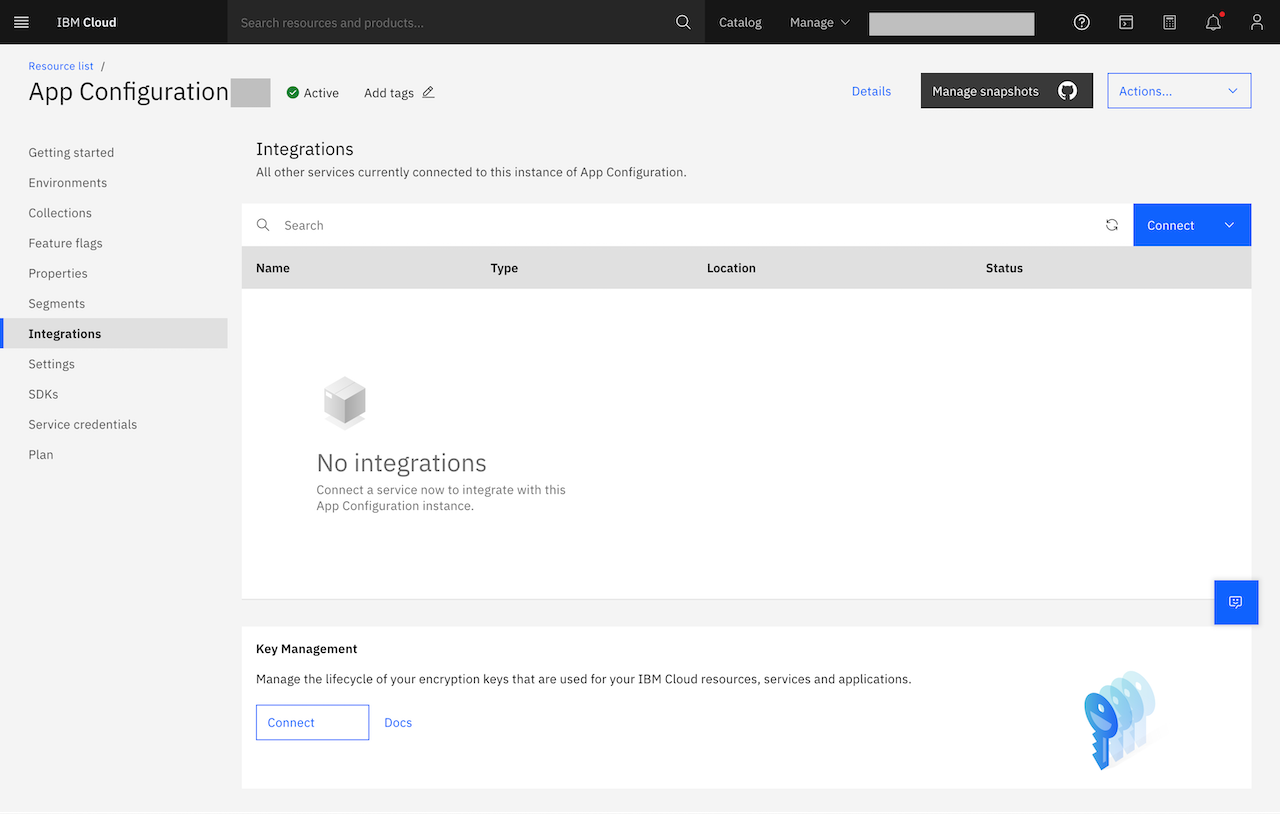
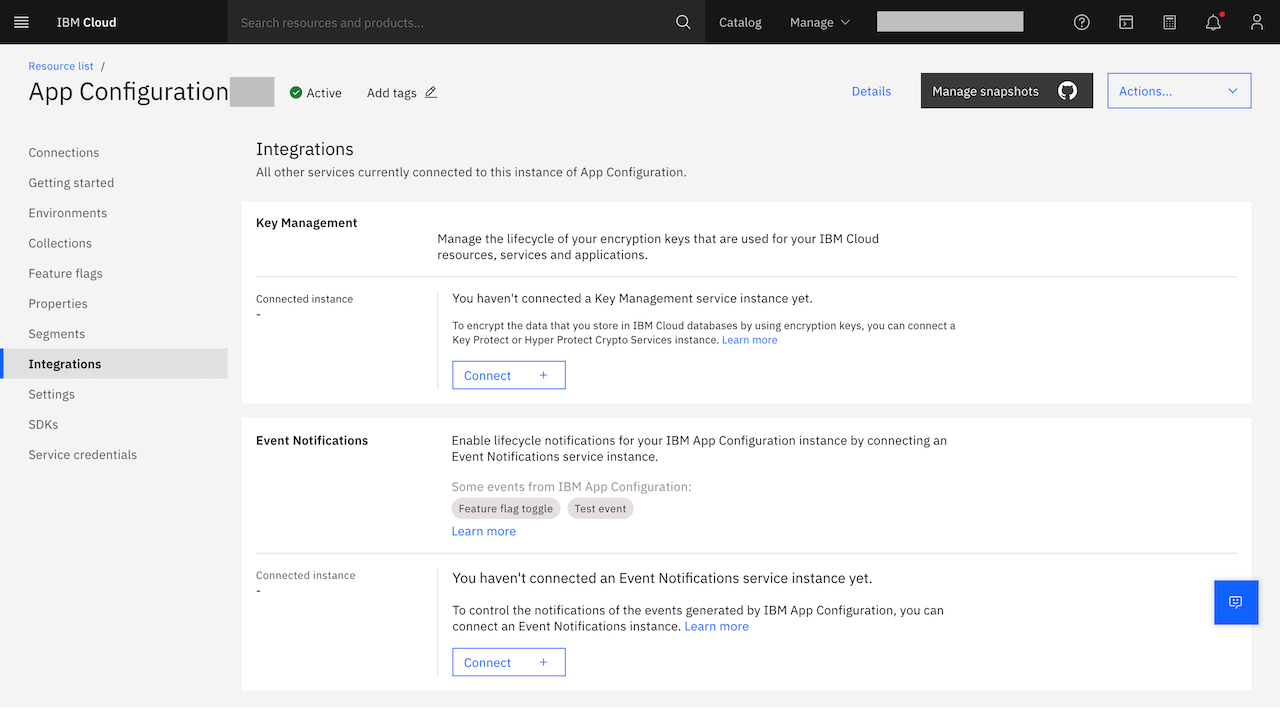
en integration (#149)
* en integration

* content update

diff --git a/ac-en-integration.md b/ac-en-integration.md
@@ -1,0 +1,152 @@
+---
+
+copyright:
+  years: 2023
+lastupdated: "2023-01-24"
+
+keywords: app-configuration, app configuration, integrations, event notifications, en
+
+subcollection: app-configuration
+
+---
+
+{{site.data.keyword.attribute-definition-list}}
+
+# Integrating with {{site.data.keyword.en_short}}
+{: #ac-int-en}
+
+As an administrator of {{site.data.keyword.appconfig_short}}, you might want to send notifications of events in {{site.data.keyword.appconfig_short}} to other users, or human destinations, by using email, SMS, or other supported delivery channels. Additionally, you might want to send these notifications of events to other applications to build logic by using event-driven programming using webhooks, for example. This is made possible by the integration between {{site.data.keyword.appconfig_short}} and {{site.data.keyword.en_short}}.
+{: shortdesc}
+
+To send information to {{site.data.keyword.en_short}}, you must connect your {{site.data.keyword.appconfig_short}} service instance to {{site.data.keyword.en_short}}. For more information about working with {{site.data.keyword.en_short}}, see [Getting started with {{site.data.keyword.en_short}}](https://{DomainName}/docs/event-notifications).
+
+## How events are collected and sent by {{site.data.keyword.appconfig_short}}?
+{: #ac-events-collected-and-sent-en}
+
+When an event of interest takes place in your {{site.data.keyword.appconfig_short}} instance, {{site.data.keyword.appconfig_short}} communicates with a connected {{site.data.keyword.en_short}} instance to forward a notification to a [supported destination](https://{DomainName}/docs/event-notifications?topic=event-notifications-en-destination).
+
+{{site.data.keyword.appconfig_short}} aggregates a list of your pending notifications by [event type](#ac-en-int-events). Every 1 - 2 minutes, the service checks for and dispatches any pending notifications to the connected {{site.data.keyword.en_short}} service.
+
+## Events for {{site.data.keyword.appconfig_short}}
+{: #ac-en-int-events}
+
+The following table lists the {{site.data.keyword.appconfig_short}} actions that generate an event.
+
+| Event name | Event type | Subtype | Severity level |
+| :--------- | :--------- | :------ | :------------- |
+| Test event | `com.ibm.cloud.apprapp.test_event` |   | Low |
+| Feature flag toggle | `com.ibm.cloud.apprapp.feature_flag_toggle` | enabled  \n disabled | High |
+{: caption="Table 1. Actions that generate event notifications" caption-side="bottom"}
+
+## Enabling notifications with {{site.data.keyword.en_short}}
+{: #ac-int-en-enable-notifications}
+
+Events that are generated by an instance of the {{site.data.keyword.appconfig_short}} service can be forwarded to an {{site.data.keyword.en_short}} service instance that is available in the same account. You can configure only one {{site.data.keyword.appconfig_short}} instance to one {{site.data.keyword.en_short}} service instance. To get started, you need:
+
+- [Manager service access]() on the {{site.data.keyword.appconfig_short}} service.
+- [Manager service access]() on the {{site.data.keyword.en_short}} service. To view an existing {{site.data.keyword.en_short}} service instance in your account, you also need Viewer platform access or higher.
+
+### Connecting to {{site.data.keyword.en_short}} in the UI
+{: #ac-int-en-connecting}
+
+Before you begin integrating {{site.data.keyword.en_short}} with {{site.data.keyword.appconfig_short}}, you need to [create an {{site.data.keyword.en_short}} service](https://{DomainName}/catalog/services/event-notifications) instance in the same account as your {{site.data.keyword.appconfig_short}} instance. Make sure you have IAM role Manger for {{site.data.keyword.IBM_notm}} {{site.data.keyword.appconfig_short}}, and [IAM service-to-service authorization](#ac-using-auth-access-between-services1).
+{: note}
+
+If you are using {{site.data.keyword.appconfig_short}} CLI or API to create integration with a {{site.data.keyword.en_short}} service instance, ensure that you have enabled authorization to grant access between services before integrating with {{site.data.keyword.en_short}}. For more information, see [Using authorizations to grant access between services](#ac-using-auth-access-between-services1).
+{: important}
+
+To integrate with a {{site.data.keyword.en_short}} service, perform the following steps:
+
+1. From your {{site.data.keyword.appconfig_short}} service instance dashboard, click **Integrations**. By default, the integrations displays the services supported along with integrations in the current {{site.data.keyword.appconfig_short}} service.
+
+1. From **Event Notifications** tile, click **Connect +**. This displays the **Connect to {{site.data.keyword.en_short}}** side panel.
+
+   ![Create {{site.data.keyword.en_short}} integration](images/ac-integrations-en-create.png "Create {{site.data.keyword.en_short}} integration"){: caption="Figure 1. Create {{site.data.keyword.en_short}} integration" caption-side="bottom"}
+
+1. Enter the **Source Details**. The source details provided will be referenced in {{site.data.keyword.en_short}}.
+   - **Name** - Enter the name for your {{site.data.keyword.appconfig_short}} instance to be referenced in {{site.data.keyword.en_short}}.
+   - **Description** - Optionally, provide a short description about this source.
+
+1. Provide the following **{{site.data.keyword.en_short}} instance** details, if you already have an {{site.data.keyword.en_short}} instance. Otherwise, click the **Create new instance**.
+   - **Resource Group** - Select the resource group where your {{site.data.keyword.en_short}} instance is created from the list.
+   - **{{site.data.keyword.en_short}} service instance** - Select the {{site.data.keyword.en_short}} service instance from the list.
+
+1. Click **Save** to apply the integration.
+
+   An error will be displayed if there is no IAM service-to-service authorization enabled, and the integration details will not be saved.
+   {: note}
+
+The integrated **{{site.data.keyword.en_short}}** details will be listed under **Connected instance**.
+
+The overflow menu of the **Connected instance** consists of:
+- **Refresh** - Select this option to refresh the details of {{site.data.keyword.en_short}} instance integration.
+- **Disconnect** - Select this option to disconnect the {{site.data.keyword.en_short}} instance integrated earlier with your {{site.data.keyword.appconfig_short}} service instance.
+
+After successful integration, you need to create Topics, Destinations, and Subscriptions in {{site.data.keyword.en_short}} to be notified of events that are generated by your {{site.data.keyword.appconfig_short}} service instance. For more details, see [Event Notifications documentation](/docs/event-notifications?topic=event-notifications-getting-started).
+
+When creating a Topic in your {{site.data.keyword.en_short}} service instance, do the following:
+- Select the **Source** as *App Configuration*.
+- Select the **Event type** based on your requirement. For more information, see [event type](#ac-en-int-events).
+- Select the **Event subtype**, which is optional.
+- Select the **Severity**, which is optional.
+- Define the **Advanced conditions**, which is optional.
+
+## Using authorizations to grant access between services
+{: #ac-using-auth-access-between-services1}
+
+Use {{site.data.keyword.cloud}} Identity and Access Management (IAM) to create or remove an authorization that grants one service access to another service. Use authorization delegation to automatically create access policies that grant access to dependent services.
+
+### Creating an authorization in the console
+{: #ac-create-auth-console1}
+
+1. In the {{site.data.keyword.cloud_notm}} console, click **Manage** > **Access (IAM)**, and select **Authorizations**.
+
+1. Click **Create**.
+
+1. Select a source account.
+   * If the source service that needs access to the target service is in this account, select **This account**.
+   * If the source service that needs access to the target service is in a different account, select **Other account**. Then, enter the **Account ID** of the source account.
+
+1. Select a **Source service** as **App Configuration**.
+
+1. Specify whether you want the authorization to be for all resources or Resources based on selected attributes. If you selected Resources based on selected attributes, then specify the **Add attributes**: only source resource group or only source service instance.
+
+1. Select a **Target service** as **Event Notifications**.
+
+1. For the target service, specify whether you want the authorization to be for all instances, only to a specific instance in the account, or instances only in a certain resource group.
+
+1. Select a role to assign access to the source service that accesses the target service.
+
+1. Click **Authorize**.
+
+### Creating an authorization by using the CLI
+{: #ac-create-auth-cli1}
+
+To authorize a source service access a target service, run the `ibmcloud iam authorization-policy-create` command.
+
+For more information about all of the parameters that are available for this command, see [ibmcloud iam authorization-policy-create](/docs/cli?topic=cli-ibmcloud_commands_iam#ibmcloud_iam_authorization_policy_create).
+
+## Notification payload details
+{: #ac-en-int-notification-payload}
+
+Successful events that are generated by {{site.data.keyword.appconfig_short}} contain various fields that help you to identify the source and details of an event.
+
+{{site.data.keyword.appconfig_short}} sends a notification payload to {{site.data.keyword.en_short}} that is similar to the following example.
+
+```json
+{ "source_service_name": "App Configuration", "source_instance_crn": "crn:v1:staging:public:apprapp-dev:us-south:a/ab420c985dd849c6a8352e71cba26ab8:a6b52cd4-deab-492a-941b-cdd9f8d63f3b::", "source_instance_dashboard_url": "https://cloud.ibm.com/services/apprapp/crn%3Av1%3Astaging%3Apublic%3Aapprapp-dev%3Aus-south%3Aa%2Fdc420e985bb849d6b8352f71dac26ab8%3Aa6b52cd4-deab-492a-941b-cdd9f8d63f3b%3A%3A?paneId=featureflag", "event_type": "com.ibm.cloud.app-configuration.feature_flag_toggle", "event_subtype": "enabled", "event_severity": "HIGH", "configurations": [ { "environment_id": "prod", "name": "Flight Booking", "feature_id": "flight-booking", "description": "", "tags": "", "type": "BOOLEAN", "enabled_value": false, "disabled_value": false, "segment_rules": [ { "rules": [ { "segments": [ "kufdrvsn" ] } ], "value": true, "order": 1 } ], "collections": [ { "collection_id": "blue-charge", "name": "Blue charge" } ], "enabled": true } ] }
+```
+{: codeblock}
+
+Review following table for more information about event notification properties.
+
+| Property | Type | Description |
+| :------- | :---------- | :---------- |
+| `source_service_name` | string | The display name of the service that sent the event notification. |
+| `source_instance_crn` | string | The Cloud Resource Name (CRN) that uniquely identifies your {{site.data.keyword.appconfig_short}} service instance. |
+| `source_instance_dashboard_url` | string | The URL to your {{site.data.keyword.appconfig_short}} service dashboard in the console. |
+| `event_type` | string | The [type of event](#ac-en-int-events) that triggered a notification. |
+| `event_subtype` | string | The subtype that corresponds with the [type of event](#ac-en-int-events) that triggered a notification. |
+| `event_severity` | string | Event severity: Low or High |
+| `configurations` | **tbd** | **info to come** |
+{: caption="Table 2. Properties in an event notification payload" caption-side="bottom"}

diff --git a/ac-integrations.md b/ac-integrations.md
@@ -1,10 +1,10 @@
 ---
 
 copyright:
-  years: 2022
-lastupdated: "2023-01-03"
+  years: 2022, 2023
+lastupdated: "2023-01-19"
 
-keywords: app-configuration, app configuration, integrations, key protect, key management, hyper protect, hpcs
+keywords: app-configuration, app configuration, integrations, key protect, key management, hyper protect, hpcs, event notifications, en
 
 subcollection: app-configuration
 
@@ -15,83 +15,14 @@ subcollection: app-configuration
 # Integrations
 {: #ac-integrations}
 
-Integrations in {{site.data.keyword.appconfig_short}} represent list of other {{site.data.keyword.cloud_notm}} services that are connected to your {{site.data.keyword.appconfig_short}} instance. You can encrypt the data that you store in {{site.data.keyword.cloud_notm}} databases by using encryption keys that you can control.
+Integrations in {{site.data.keyword.appconfig_short}} represent list of other {{site.data.keyword.cloud_notm}} services that are connected to your {{site.data.keyword.appconfig_short}} instance.
 {: shortdesc}
 
-The **Integrations** page displays the integrations in the current {{site.data.keyword.appconfig_short}} service instance along with Name, type, location, and status of the integration.
+The **Integrations** page displays the services supported along with integrations in the current {{site.data.keyword.appconfig_short}} service. Following service integrations are supported:
 
 ![List of integrations](images/ac-integrations-default.png "List of integrations"){: caption="Figure 1. List of integrations" caption-side="bottom"}
 
-You can use either one of the following options:
-- Bring Your Own Key (BYOK) through {{site.data.keyword.keymanagementservicelong_notm}}, and use one of your own keys to encrypt your databases and backups.
-- Hyper Protect Crypto Services (HPCS) - {{site.data.keyword.cloud}} {{site.data.keyword.hscrypto}}, a dedicated key management service, and Hardware Security Module (HSM) that provides you with the Keep Your Own Key capability for cloud data encryption with exclusive control of your encryption keys.
+1. **Key Management** - You can encrypt the data that you store in {{site.data.keyword.cloud_notm}} databases by using encryption keys that you can control. Manage the lifecycle of your encryption keys that are used for your {{site.data.keyword.cloud_notm}} resources, services and applications. For more information, see [Integrating with a Key management service](/docs/app-configuration?topic=app-configuration-ac-int-key-management).
 
-BYOK and KYOK capabilities are supported only for {{site.data.keyword.appconfig_short}} Enterprise plan.
-{: important}
+1. **{{site.data.keyword.en_short}}** - Enable lifecycle notifications for your {{site.data.keyword.appconfig_short}} instance by connecting an {{site.data.keyword.en_short}} service instance. For more information, see [Integrating with {{site.data.keyword.en_short}} service](/docs/app-configuration?topic=app-configuration-ac-int-en).
 
-For more information, see [Managing encryption](/docs/app-configuration?topic=app-configuration-ac-managing-encryption).
-
-## Integrating with a Key management service
-{: #ac-int-key-management}
-
-If you are using {{site.data.keyword.appconfig_short}} CLI or API to create integration with a key management service (KMS), ensure that you have enabled authorization to grant access between services before integrating with a KMS service. For more information, see [Using authorizations to grant access between services](#ac-using-auth-access-between-services).
-{: important}
-
-You can create and bring keys that are created by using {{site.data.keyword.keymanagementserviceshort}} or {{site.data.keyword.hscrypto}}. To get started, you need [{{site.data.keyword.keymanagementserviceshort}}](https://cloud.ibm.com/catalog/key-protect){: external} or [{{site.data.keyword.hscrypto}}](https://cloud.ibm.com/catalog/services/hyper-protect-crypto-services) provisioned on your {{site.data.keyword.cloud_notm}} account. For more information, see [provisioning a key protect instance](https://cloud.ibm.com/docs/key-protect?topic=key-protect-provision){: external} or see [provisioning a {{site.data.keyword.hscrypto}} instance](/docs/hs-crypto?topic=hs-crypto-get-started){: external}.
-
-1. From your {{site.data.keyword.appconfig_short}} service instance dashboard, click **Integrations**. By default, the integrations display the list of other {{site.data.keyword.cloud_notm}} services that are connected to your {{site.data.keyword.appconfig_short}} instance.
-
-1. From the **Connect** drop-down list, select **Key Management**. This displays the **Key Management** side panel.
-
-   ![Create KMS integration](images/ac-integrations-create.png "Create KMS integration"){: caption="Figure 2. Create KMS integration" caption-side="bottom"}
-
-1. Select **Key Protect** or **Hyper Protect Crypto Services** from the **Service** drop-down list, as per your requirement.
-
-1. For the **Instance**, select one of these options:
-   - **Create a new instance** - to create a new instance of the selected service. Selecting this option takes you to the respective provisioning page of the service selected.
-   - **Choose existing instance** - select this option if you already have a {{site.data.keyword.keymanagementserviceshort}} or {{site.data.keyword.hscrypto}} instance. Select the **Service** instance and **Root key** from the drop-down list.
-
-1. Click **Create** to apply the use of your {{site.data.keyword.keymanagementserviceshort}} or {{site.data.keyword.hscrypto}} instance's root key to encrypt the segment data stored by your {{site.data.keyword.appconfig_short}} instance.
-
-The newly created **Key Management** information is listed in the **Integrations** dashboard.
-
-The overflow menu consists of:
-- `View` - helps you to view the details of the selected encryption service.
-
-When an {{site.data.keyword.appconfig_short}} instance is deleted, unregistration of the resource with key management services automatically happens. If any error, you can manually unregister {{site.data.keyword.appconfig_short}} instance from key management service by using the {{site.data.keyword.cloud_notm}} console dashboard.
-{: note}
-
-## Using authorizations to grant access between services
-{: #ac-using-auth-access-between-services}
-
-Use {{site.data.keyword.Bluemix}} Identity and Access Management (IAM) to create or remove an authorization that grants one service access to another service. Use authorization delegation to automatically create access policies that grant access to dependent services.
-
-### Creating an authorization in the console
-{: #ac-create-auth-console}
-
-1. In the {{site.data.keyword.cloud_notm}} console, click **Manage** > **Access (IAM)**, and select **Authorizations**.
-
-1. Click **Create**.
-
-1. Select a source account.
-   * If the source service that needs access to the target service is in this account, select **This account**.
-   * If the source service that needs access to the target service is in a different account, select **Other account**. Then, enter the **Account ID** of the source account.
-
-1. Select a **Source service** as **App Configuration**.
-
-1. Specify whether you want the authorization to be for all resources or Resources based on selected attributes. If you selected Resources based on selected attributes, then specify the *Add attributes**: only source resource group or only source service instance.
-
-1. Select a **Target service** as per your requirement (Key Protect or Hyper Protect Crypto Services).
-
-1. For the target service, specify whether you want the authorization to be for all instances, only a specific instance in the account, or instances only in a certain resource group.
-
-1. Select a role to assign access to the source service that accesses the target service.
-
-1. Click **Authorize**.
-
-### Creating an authorization by using the CLI
-{: #ac-create-auth-cli}
-
-To authorize a source service access a target service, run the `ibmcloud iam authorization-policy-create` command.
-
-For more information about all of the parameters that are available for this command, see [ibmcloud iam authorization-policy-create](/docs/cli?topic=cli-ibmcloud_commands_iam#ibmcloud_iam_authorization_policy_create).

diff --git a/ac-kms-integration.md b/ac-kms-integration.md
@@ -1,0 +1,89 @@
+---
+
+copyright:
+  years: 2022, 2023
+lastupdated: "2023-01-19"
+
+keywords: app-configuration, app configuration, integrations, key protect, key management, hyper protect, hpcs
+
+subcollection: app-configuration
+
+---
+
+{{site.data.keyword.attribute-definition-list}}
+
+# Integrating with a Key management service
+{: #ac-int-key-management}
+
+You can encrypt the data that you store in {{site.data.keyword.cloud_notm}} databases by using encryption keys that you can control. Manage the lifecycle of your encryption keys that are used for your {{site.data.keyword.cloud_notm}} resources, services and applications.
+{: shortdesc}
+
+You can use either one of the following options:
+- Bring Your Own Key (BYOK) through {{site.data.keyword.keymanagementservicelong_notm}}, and use one of your own keys to encrypt your databases and backups.
+- Hyper Protect Crypto Services (HPCS) - {{site.data.keyword.cloud}} {{site.data.keyword.hscrypto}}, a dedicated key management service, and Hardware Security Module (HSM) that provides you with the Keep Your Own Key capability for cloud data encryption with exclusive control of your encryption keys.
+
+BYOK and KYOK capabilities are supported only for {{site.data.keyword.appconfig_short}} Enterprise plan.
+{: important}
+
+For more information, see [Managing encryption](/docs/app-configuration?topic=app-configuration-ac-managing-encryption).
+
+If you are using {{site.data.keyword.appconfig_short}} CLI or API to create integration with a key management service (KMS), ensure that you have enabled authorization to grant access between services before integrating with a KMS service. For more information, see [Using authorizations to grant access between services](#ac-using-auth-access-between-services).
+{: important}
+
+You can create and bring keys that are created by using {{site.data.keyword.keymanagementserviceshort}} or {{site.data.keyword.hscrypto}}. To get started, you need [{{site.data.keyword.keymanagementserviceshort}}](https://cloud.ibm.com/catalog/key-protect){: external} or [{{site.data.keyword.hscrypto}}](https://cloud.ibm.com/catalog/services/hyper-protect-crypto-services) provisioned on your {{site.data.keyword.cloud_notm}} account. For more information, see [provisioning a key protect instance](https://cloud.ibm.com/docs/key-protect?topic=key-protect-provision){: external} or see [provisioning a {{site.data.keyword.hscrypto}} instance](/docs/hs-crypto?topic=hs-crypto-get-started){: external}.
+
+To integrate with a key management service, perform the following steps:
+
+1. From your {{site.data.keyword.appconfig_short}} service instance dashboard, click **Integrations**. By default, the integrations displays the services supported along with integrations in the current {{site.data.keyword.appconfig_short}} service.
+
+1. From **Key Management** tile, click **Connect +**. This displays the **Key Management** side panel.
+
+   ![Create KMS integration](images/ac-integrations-kms-create.png "Create KMS integration"){: caption="Figure 1. Create KMS integration" caption-side="bottom"}
+
+1. Select **Key Protect** or **Hyper Protect Crypto Services** from the **Service** drop-down list, as per your requirement.
+
+1. For the **Instance**, select one of these options:
+   - **Create a new instance** - to create a new instance of the selected service. Selecting this option takes you to the respective provisioning page of the service selected.
+   - **Choose existing instance** - select this option if you already have a {{site.data.keyword.keymanagementserviceshort}} or {{site.data.keyword.hscrypto}} instance. Select the **Instance name** and **Root key** from the drop-down list.
+
+1. Click **Create** to apply the use of your {{site.data.keyword.keymanagementserviceshort}} or {{site.data.keyword.hscrypto}} instance's root key to encrypt the segment data stored by your {{site.data.keyword.appconfig_short}} instance.
+
+The newly created **Key Management** information is listed under **Connected instance**.
+
+When an {{site.data.keyword.appconfig_short}} instance is deleted, unregistration of the resource with key management services automatically happens. If any error, you can manually unregister {{site.data.keyword.appconfig_short}} instance from key management service by using the {{site.data.keyword.cloud_notm}} console dashboard.
+{: note}
+
+## Using authorizations to grant access between services
+{: #ac-using-auth-access-between-services}
+
+Use {{site.data.keyword.cloud}} Identity and Access Management (IAM) to create or remove an authorization that grants one service access to another service. Use authorization delegation to automatically create access policies that grant access to dependent services.
+
+### Creating an authorization in the console
+{: #ac-create-auth-console}
+
+1. In the {{site.data.keyword.cloud_notm}} console, click **Manage** > **Access (IAM)**, and select **Authorizations**.
+
+1. Click **Create**.
+
+1. Select a source account.
+   * If the source service that needs access to the target service is in this account, select **This account**.
+   * If the source service that needs access to the target service is in a different account, select **Other account**. Then, enter the **Account ID** of the source account.
+
+1. Select a **Source service** as **App Configuration**.
+
+1. Specify whether you want the authorization to be for all resources or Resources based on selected attributes. If you selected Resources based on selected attributes, then specify the **Add attributes**: only source resource group or only source service instance.
+
+1. Select a **Target service** as per your requirement (Key Protect or Hyper Protect Crypto Services).
+
+1. For the target service, specify whether you want the authorization to be for all instances, only to a specific instance in the account, or instances only in a certain resource group.
+
+1. Select a role to assign access to the source service that accesses the target service.
+
+1. Click **Authorize**.
+
+### Creating an authorization by using the CLI
+{: #ac-create-auth-cli}
+
+To authorize a source service access a target service, run the `ibmcloud iam authorization-policy-create` command.
+
+For more information about all of the parameters that are available for this command, see [ibmcloud iam authorization-policy-create](/docs/cli?topic=cli-ibmcloud_commands_iam#ibmcloud_iam_authorization_policy_create).

diff --git a/ac-release-notes.md b/ac-release-notes.md
@@ -1,8 +1,8 @@
 ---
 
 copyright:
-  years: 2020, 2022
-lastupdated: "2022-11-30"
+  years: 2020, 2023
+lastupdated: "2023-01-19"
 
 keywords: app-configuration, app configuration, release notes, service updates, service bulletin,
 
@@ -17,6 +17,11 @@ subcollection: app-configuration
 
 Stay up to date with the new features that are available for {{site.data.keyword.appconfig_short}} service.
 {: shortdesc}
+
+## January 2023
+{: #January-2023}
+
+- Support for integration with {{site.data.keyword.en_short}} to enable lifecycle event notifications for your {{site.data.keyword.appconfig_short}} service instance. For more information, see [Integrating with {{site.data.keyword.en_short}} service](/docs/app-configuration?topic=app-configuration-ac-int-en).
 
 ## November 2022
 {: #November-2022}
